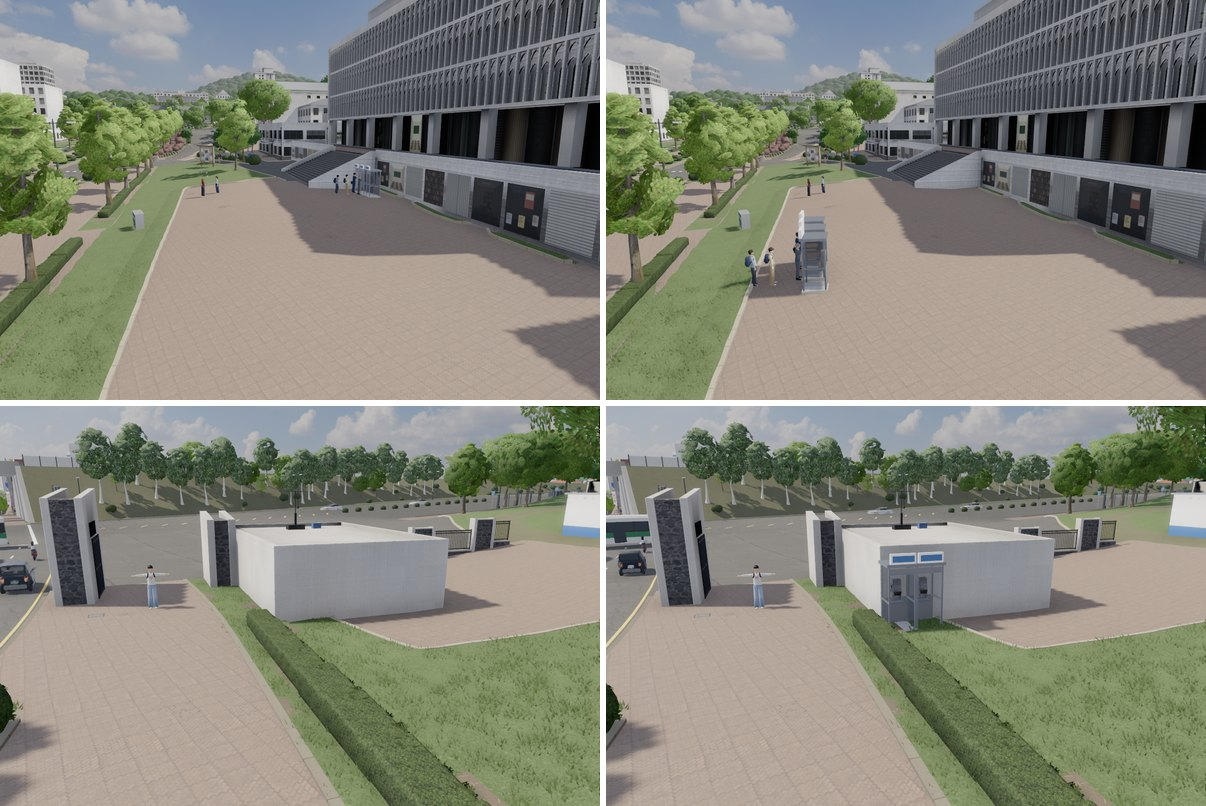
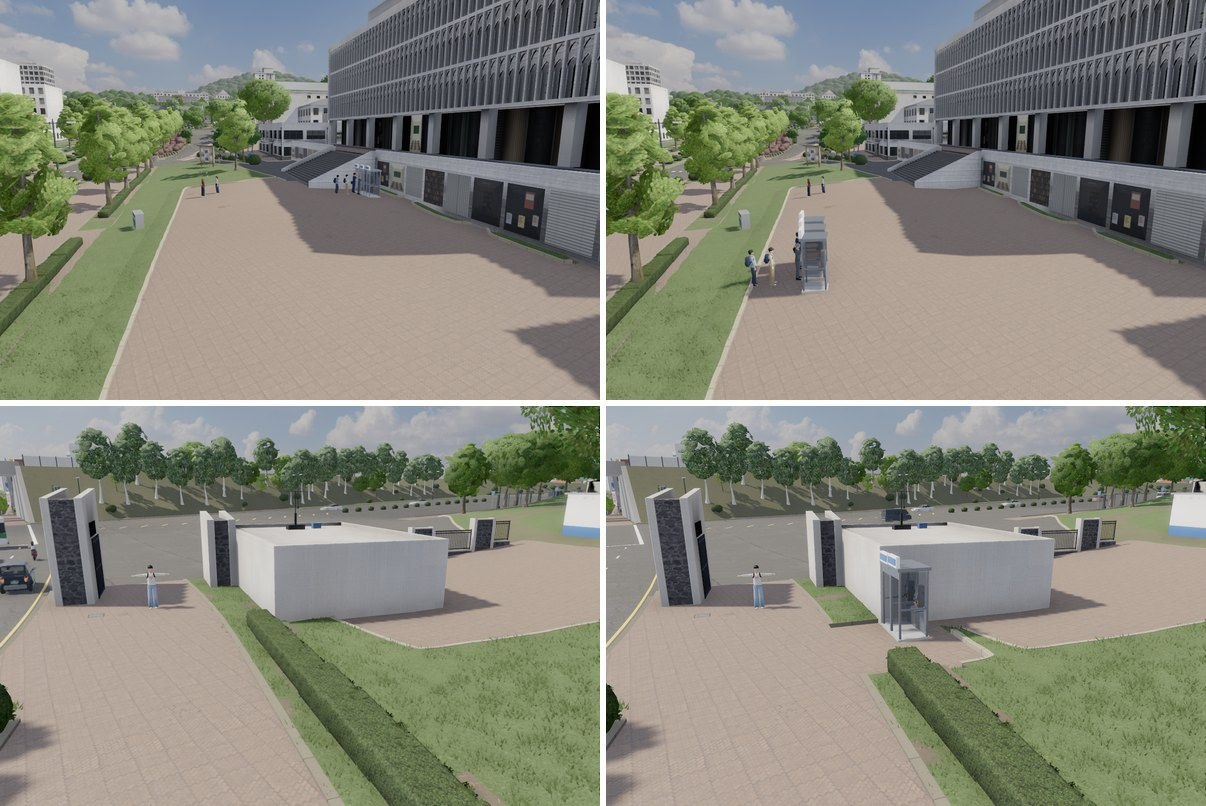
정문 수위실 북동 모서리: 생울타리 끝을 걷고 부스를 보도 쪽으로
부스로 가려면 보도 바깥 생울타리 끝을 돌아 잔디를 건너야 했다.
1996년 겨울 원본 스캔 두 장에서 화단 띠는 수위실 모서리보다 4 m
북쪽에서 시작하고, 그 남쪽은 보도와 이어진 포장이었다.

- 생울타리 남쪽 세 그루를 늦게 빼고, 화단 띠를 열고 포장으로 칠함
  (GATE_CORNER, 심기 난수는 그대로)
- blender/road.py: 정문 어귀 구간(mouth_segment)도 strip_breaks 를 따름
- 부스 둘은 로드뷰대로 앞을 동쪽 보도로, 삐삐 판정 자리 다시 뽑음

diff --git a/tools/build_campus.py b/tools/build_campus.py
@@ -8269,6 +8269,15 @@ out['baekyangro']['mouths'] += [[1, -2.0, round(GATE_S + 1.0, 2), 0.0, 0.0], [-1
 # 대강당 앞 둑: blender/road.py leaves the planting strip out where the wall stands, blender/landmarks.py aud_bank builds it
 out['baekyangro']['walls'] = [[AUD_BANK['side'], AUD_BANK['s0'], AUD_BANK['s1']]]
 out['baekyangro']['strip_breaks'] = [list(ENG_MOUTH97 if o_ is ENG_MOUTH else o_) for o_ in STRIP_OPEN]   # (제1공학관 앞 진입로: 1997, 백양관 앞)
+# 정문 수위실 북동 모서리 (reference/고증/4.8.1 「수위실 곁 공중전화 부스」): the planting strip's hedge starts 4 m north
+# of the lodge's north wall on the 1996 winter scans (26/16 · 26/17: its first dark clump at s 47.5 - 47.7, leaf-off);
+# short of it the corner is bright paving from the sidewalk to the lodge's yard (1997 July 26/16 · 27/17, 1998 26/17),
+# where the 2008 - 2011 roadview has the payphone booths.  Late: the strip open there (blender/road.py strip_breaks),
+# paved (_yp below), its hedge pieces gone (with the booths below), so nothing else planted moves
+GATE_CORNER = (1, 42.6, 47.2)
+GATE_CORNER_PAVE = Polygon([along_raw(s_, o_)[:2] for s_, o_ in ((42.0, E_WALK - 0.2), (GATE_CORNER[2], E_WALK - 0.2),
+                                                                 (GATE_CORNER[2], E_WALK + ROAD['strip'] + 1.5), (42.0, E_WALK + ROAD['strip'] + 1.5))])
+out['baekyangro']['strip_breaks'].append(list(GATE_CORNER))
 out['baekyangro']['breaks'] = VERGE_BREAKS + [ENG_VERGE97]     # (the verge's openings besides crossings and gaps, above; 제1공학관 앞: 1997)
 # yellow-and-black bollards on the ramps of the openings, where the 2008 and the 2010 roadview both have them
 # (side, s; 1997 unknown): 백주년기념관 앞 건널목 (the one south of the grate), 학생회관 앞 (two, two, three, two and
@@ -10367,6 +10376,7 @@ if UTS_WALK:
     _ypaint([UTS_WALK], _yp, width=2.6)
 _ypaint(union97.west_paint(), _yp)         # (학생회관 남쪽 앞마당으로 드는 길: paving, as the forecourt's; tools/union97.py)
 _ypaint([GATE97_LAWN], _yg)                 # (정문 안 갈림길: the 1999 forecourt and island out, lawn under the 1997 crowns; GATE97)
+_ypaint([GATE_CORNER_PAVE], _yp)            # (수위실 북동 모서리: paving from the sidewalk to the lodge's yard; GATE_CORNER)
 # 찻길, the east road on the 1997 photos' line (TR_E, RD97 above), after the planting has read the ground as it was:
 #  - OSM's asphalt along the old line (TR_E_OSM) is taken up (lawn; the woods' floor again in the woods, _gf below),
 #    but for the roads and walks that met it, which keep their ends and run on to the new road (_rd_join: _ga, _gp);
@@ -13307,13 +13317,19 @@ out['trees'].append(['fir', -104.0, -264.3, 0.55, 2.1])     # (제1공학관 남
 out['shrubs'] += dongmun.shrubs()
 out['props'] += dongmun.props()
 # 공중전화 부스 둘 by the gate's lodge (reference/고증/4.8.1 「수위실 곁 공중전화 부스」): the 2008 - 2011 roadview
-# has a pair of booths at the lodge's north-east corner (동문 기억: 정문과 공대 사이). In the gate's frame (STATUES
-# 'gate', u east along the gate's line, v north) their backs to the lodge's north wall (blender/props.py GATE_LODGE:
-# u -19.18 .. -12.18, v up to 9.7), the east one flush with its east wall, the open fronts north onto the paving (the
-# game's low hedge stands 1.2 m east of the lodge where the roadview had the walk). At the props' very end (no index moves)
-for _u in (-12.66, -13.61):
-    _p = _gc + _gw_t * _u + _gw_n * 10.23
-    out['props'].append(['payphone', round(float(_p[0]), 2), round(float(_p[1]), 2), round(math.atan2(_gw_n[1], _gw_n[0]), 3)])
+# has a pair of booths just past the north end of the lodge's east face (동문 기억: 정문과 공대 사이), the open fronts
+# east onto the sidewalk.  In the gate's frame (STATUES 'gate', u east along the gate's line, v north; blender/props.py
+# GATE_LODGE: u -19.18 .. -12.18, v up to 9.7) side by side northwards off the lodge's north wall, their fronts in line
+# with its east face; the planting strip's hedge there is gone (GATE_CORNER below).  At the props' very end (no index moves)
+for _v in (10.23, 11.18):
+    _p = _gc + _gw_t * -12.71 + _gw_n * _v
+    out['props'].append(['payphone', round(float(_p[0]), 2), round(float(_p[1]), 2), round(math.atan2(_gw_t[1], _gw_t[0]), 3)])
+# (and the strip's hedge pieces on GATE_CORNER go, each slot given to the shrubs' last: late, no draws)
+_gcz = Polygon([along_raw(s_, o_)[:2] for s_, o_ in ((GATE_CORNER[1], E_WALK), (GATE_CORNER[2], E_WALK),
+                                                    (GATE_CORNER[2], E_WALK + ROAD['strip']), (GATE_CORNER[1], E_WALK + ROAD['strip']))])
+for _i in sorted((i_ for i_, s_ in enumerate(out['shrubs']) if s_[0] == 'hedge_low' and _gcz.contains(Point(s_[1], s_[2]))), reverse=True):
+    out['shrubs'][_i] = out['shrubs'][-1]
+    out['shrubs'].pop()
 out['shrubs'] += north97.shrubs97_more()      # (무악학사 학사 사이 동 서쪽의 덩이, 2026-11-21: at the shrubs' very end)
 # 이중윤 동문의 2003 ~ 2004년 사진(reference/동문_이중윤/, reference/고증/1_자료.md 자료 S)에서 옮긴 것(2026-11-22). Late, no draws.
 # - 중앙도서관 테라스의 난간 턱 (reference/고증/3.2-3.3 3.2.1 「난간 턱」): a seat-high granite parapet along the terrace's

diff --git a/blender/road.py b/blender/road.py
@@ -253,6 +253,26 @@ def build():
         def quad(q):
             mb.face(q if side > 0 else [q[1], q[0], q[3], q[2]], q_mat[0])
 
+        # the planting strip's openings (campus.json strip_breaks) apply here too: 정문 수위실 북동 모서리 is within
+        # the gate mouth's reach (mouth_at: its verge's end + 1.1 m)
+        brk = [(w0, w1) for sd, w0, w1 in sbreaks if sd == side and w1 > sa and w0 < sb]
+
+        def in_sbreak(s):
+            return any(w0 < s < w1 for w0, w1 in brk)
+
+        def strip_left(u0, v0, u1, v1):
+            # a strip band's stretch [u, v] (u0 · v0 on its inner edge, u1 · v1 on its outer) less the openings
+            out = [(u0, v0, u1, v1)]
+            for w0, w1 in brk:
+                nxt = []
+                for a0, b0, a1, b1 in out:
+                    if min(a0, a1) < w0:
+                        nxt.append((a0, max(a0, min(b0, w0)), a1, max(a1, min(b1, w0))))
+                    if max(b0, b1) > w1:
+                        nxt.append((min(b0, max(a0, w1)), b0, min(b1, max(a1, w1)), b1))
+                out = [q for q in nxt if q[1] - q[0] > 1e-4 or q[3] - q[2] > 1e-4]
+            return out
+
         q_mat = [None]
         # (o0, o1, z, mat) bands standing beside the road, as in the plain cross-section
         bands = [(e_lane, e_curb, VZ, 'curb'), (e_curb, e_verge - 0.2, VZ, LAWN), (e_verge - 0.2, e_verge, VZ, 'curb'),
@@ -280,11 +300,12 @@ def build():
                     if u0 >= v0 - 1e-4 and u1 >= v1 - 1e-4:
                         continue
                     v0, v1 = max(u0, v0), max(u1, v1)
-                    q_mat[0] = mat
-                    quad([P(u0, p0, z), P(v0, p0, z), P(v1, p1, z), P(u1, p1, z)])
+                    for u0_, v0_, u1_, v1_ in (strip_left(u0, v0, u1, v1) if o0 >= e_walk - 1e-6 else [(u0, v0, u1, v1)]):
+                        q_mat[0] = mat
+                        quad([P(u0_, p0, z), P(v0_, p0, z), P(v1_, p1, z), P(u1_, p1, z)])
                     # the kerb face where the band stops, towards the mouth
                     e0, e1 = (v0, v1) if edge == 'end' else (u0, u1)
-                    if sa < e0 < sb or sa < e1 < sb:
+                    if (sa < e0 < sb or sa < e1 < sb) and not (o0 >= e_walk - 1e-6 and in_sbreak(0.5 * (e0 + e1))):
                         q_mat[0] = KERB
                         f = [P(e0, p0, 0), P(e1, p1, 0), P(e1, p1, z), P(e0, p0, z)]
                         quad(f if edge == 'end' else [f[1], f[0], f[3], f[2]])
@@ -293,16 +314,31 @@ def build():
                                        (e_strip, -0.8, WZ, True)):
             lo, hi = cut(m, off, off <= e_verge + 1e-6)
             for u, v in ((sa, min(sb, lo)), (max(sa, hi), sb)):
-                if v - u > 1e-3:
-                    q_mat[0] = KERB
-                    f = [P(u, off, z0_), P(v, off, z0_), P(v, off, z1_), P(u, off, z1_)]
-                    quad([f[1], f[0], f[3], f[2]] if outward else f)
+                for u, v, _, _ in (strip_left(u, v, u, v) if off >= e_walk - 1e-6 else [(u, v, u, v)]):
+                    if v - u > 1e-3:
+                        q_mat[0] = KERB
+                        f = [P(u, off, z0_), P(v, off, z0_), P(v, off, z1_), P(u, off, z1_)]
+                        quad([f[1], f[0], f[3], f[2]] if outward else f)
             if off == e_lane and m[5] > 0:
                 # the low kerb of the paving in front of the verge's end
                 u, v = max(sa, cut(m, off)[1]), min(sb, hi)
                 if v - u > 1e-3:
                     q_mat[0] = KERB
                     quad([P(u, off, 0), P(v, off, 0), P(v, off, WZ), P(u, off, WZ)])
+        # in a strip opening the sidewalk's edge goes down to the terrain, and the strip's ends face it (as below, the
+        # plain cross-section)
+        for w0, w1 in brk:
+            u, v = max(sa, w0), min(sb, w1)
+            if v - u > 1e-3:
+                q_mat[0] = KERB
+                f = [P(u, e_walk, -0.8), P(v, e_walk, -0.8), P(v, e_walk, WZ), P(u, e_walk, WZ)]
+                quad([f[1], f[0], f[3], f[2]])
+            for w in (w0, w1):
+                if sa < w < sb:
+                    q_mat[0] = KERB
+                    q = [P(w, e_walk, -0.8), P(w, e_strip, -0.8), P(w, e_strip, WZ), P(w, e_walk, WZ)]
+                    quad(q)
+                    quad([q[1], q[0], q[3], q[2]])
         # the flush asphalt of the mouth, out past the strip onto the terrain's own asphalt, with a skirt beneath
         k = int(math.ceil((e_strip + 0.6 - e_lane) / 0.4))
         for i in range(k):

diff --git a/reference/고증/4.8.1_정문의_생김새.md b/reference/고증/4.8.1_정문의_생김새.md
@@ -478,9 +478,27 @@
 - 1996 ~ 1999년 원본 스캔
   - 수위실 지붕 위 u −14.7, v 6.6 ~ 9.5 에 1 × 3 m 쯤의 밝은 띠: 1996 · 1997 · 1998년 짝 여섯이 땅 위 2.2 ~ 2.6 m(상관 0.95 ~ 1.00)로 맞음. 크기는 부스 셋 줄과 같으나 자리가 수위실 지붕(2.8 m) 안이라 지붕의 것으로 봄
   - 수위실 북쪽(v 10 ~ 13): 1997년 7월은 수관 밑, 1996년 겨울은 수위실 그늘이라 부스를 가리지 못함
-- 게임: 부스 둘을 수위실 북쪽 벽에 등을 대고, 동쪽 것은 동쪽 벽과 한 면(u −12.66 · −13.61, v 10.23: (−114.86, −382.97) · (−115.78, −382.74)). 앞은 북쪽 포장 마당(`tools/build_campus.py` 「공중전화 부스 둘 by the gate's lodge」)
-  - 로드뷰는 앞이 동쪽이나, 게임은 그 자리 1.2 m 동쪽에 낮은 생울타리가 있어 수화기를 드는 자리가 울타리에 걸림
+- 게임: 부스 둘을 수위실 북쪽 벽에서 북쪽으로 나란히, 앞면은 수위실 동쪽 면과 한 줄(u −12.71, v 10.23 · 11.18: (−114.91, −382.96) · (−114.68, −382.04)). 앞은 동쪽 보도(`tools/build_campus.py` 「공중전화 부스 둘 by the gate's lodge」)
+  - 처음(2026-11-23)에는 수위실 북쪽 벽에 등을 대고 앞이 북쪽이었음. 보도 쪽 화단 띠의 생울타리가 수위실 모서리까지 이어져 보도에서 부스로 가려면 울타리 끝을 돌아 잔디를 건너야 했음. 그 울타리 끝은 아래 「수위실 북동 모서리의 화단 띠」로 고침
   - 1997년에도 같은 자리였는지는 「남은 한계」
+
+### 수위실 북동 모서리의 화단 띠 (2026-11-23)
+
+보도 바깥 화단 띠(생울타리 · 은행나무)가 어디서 시작하는지를 원본 스캔에서 읽었다. 화단 띠 가운데 선(차도 가운데에서 서쪽 11.05 m)을 따라 편 띠를 각 사진의 땅 높이 + 0.3 m 에 다시 투영해 견줌.
+
+| 사진 | 화단 띠 선 위의 첫 짙은 덩이(백양로 s) | 그 남쪽(수위실 북동 모서리 쪽) |
+|---|---|---|
+| 1996 26/16(잎 없음) | 47.5 | 밝은 포장, 보도와 이어짐 |
+| 1996 26/17(잎 없음) | 47.7 | 같음 |
+| 1996 27/17 · 27/18 | 44 ~ 45 쯤(동쪽 나무 그림자가 겹쳐 읽기 어려움) | 밝음 |
+| 1997 26/16(7월) | 46.6(수관이 덮음) | 밝은 포장. 수위실 모서리 동쪽에 작은 짙은 덩이 하나(s 43, 관목이나 작은 나무) |
+| 1998 26/17(10월) | 띠 동쪽 끝이 비스듬히 잘린 화단, 띠 가운데 선에서 45.4 | 수위실과 화단 사이 밝은 포장 |
+
+- 잎 없는 두 장이 0.2 m 안에서 맞아 띠의 남쪽 끝을 s 47.5 쯤으로 봄. 게임의 생울타리는 s 43.5 에서 시작했음
+- 게임
+  - 생울타리 남쪽 세 그루(s 43.5 · 45.0 · 46.5)를 뺌. 화단 띠는 s 42.6 ~ 47.2 에서 열림(`GATE_CORNER`)
+  - 그 자리와 부스 뒤를 보도에서 수위실 북쪽 마당까지 포장으로
+- 1997년 · 1999년 사진의 수위실 모서리 곁 짙은 덩이(1999년 27/17 에서는 뾰족한 늘푸른 나무)는 게임에 넣지 않음. 1996년 겨울 사진에는 뚜렷하지 않아 1997년에 있었는지 모름
 
 ## 게임에 옮긴 것
 
@@ -498,7 +516,8 @@
 | 현판 | 서쪽 큰 기둥의 한자 현판 | 동쪽 흰 담(2011년 글씨 자리, 대자보 뒤) → 없음(자료 R `gate.jpg` 의 흰 담에 현판이 없음) |
 | 대자보 | 없음 | 동쪽 흰 담 두 칸에 큰 종이 넷과 작은 공고 둘, 계절마다 다른 글(위 「대자보」) |
 | 안내판 | 없음 | 동쪽 큰 기둥 앞 |
-| 공중전화 부스 | 없음 | 수위실 북쪽 벽 동쪽 끝에 둘, 앞은 북쪽(위 「수위실 곁 공중전화 부스」) |
+| 공중전화 부스 | 없음 | 수위실 북동 모서리 너머에 둘, 앞은 동쪽 보도(전: 수위실 북쪽 벽에 등을 대고 앞은 북쪽. 위 「수위실 곁 공중전화 부스」) |
+| 수위실 북동 모서리의 화단 띠 | 생울타리가 s 43.5 부터 | s 47.5 부터, 그 남쪽은 보도에서 수위실 북쪽 마당까지 포장(위 「수위실 북동 모서리의 화단 띠」) |
 
 - 큰 기둥: 백양로 화단 띠(차도 가운데에서 4.2 ~ 5.65 m)의 남쪽 끝에 섬(원본 스캔에서도 띠 끝)
 - 보도(폭 서쪽 5.0 m · 동쪽 5.2 m, 전 4.5 · 4.4 m): 큰 기둥과 바깥 기둥 사이로 지나감
@@ -513,4 +532,4 @@
 | 수위실의 폭 · 옆 · 뒤, 서쪽 낮은 담의 서쪽 끝 | 폭 7.0 m(1996년 사진), 민 화강석 벽, 담은 31.5 m까지 | 폭: 네 비행 원본 스캔 열세 장의 지붕은 u −18.4 ~ −12.2 (6.2 m, 위 「다른 해의 원본 스캔으로 본 낮은 담과 수위실」), 2008년 스카이뷰 6.5 ~ 7 m, 1996년 사진의 앞면 6.7 ~ 7.0 m. 2011년 로드뷰의 옆 · 뒤는 막돌 벽에 청록 창틀(고친 것일 수 있음). 1996년 사진 왼쪽 끝은 가운데에서 25 m. 1996년 겨울 · 1997 ~ 1999년 원본 스캔 모두 u −19 ~ −34가 늘푸른 나무 수관이고, u −34.2에 남북으로 곧은 짙은 줄(가림벽인지 모름) 그 서쪽은 공학원 공사장 앞 마당. 수위실은 지붕만 보임. 자료 R `gate.jpg` 는 수위실 앞면만, 왼쪽 끝이 가운데에서 18 m. 서울연구원 51994(1995년 10월, 성산로 서쪽에서)는 버스에 가림 | #168 |
 | 큰 기둥 몸체의 뒤 | 2011년 로드뷰의 뒤쪽 막돌 | 1990년대 사진은 모두 남쪽에서 찍은 것. 판 윗면이 뒤로 낮아지는 정도(앞 4.9 m → 뒤 4.5 m)도 어림(원본 스캔의 판 윗면은 땅 위 4.4 ~ 4.6 m, ± 0.3 m). 등은 1996년 8월 사진의 1600 px 원본으로 없음이 풀려 뺌 | #168 |
 | 대자보의 글귀 | 그 무렵 보도에 나온 일로 지은 글, 봄 · 여름 · 가을 여섯 장씩 | 1997년 4 · 5 · 10월의 연세춘추 지면(온라인 목록은 1998년 3월부터), 그해 정문 앞 사진. 찾아본 곳: 자료 R(학교 홈페이지 1996 ~ 1997: `gate.jpg` 는 대자보가 없는 날), 서울신문 1997년 | #168 |
-| 수위실 곁 공중전화 부스의 1997년 자리 · 방향 | 둘, 수위실 북쪽 벽 동쪽 끝, 앞은 북쪽 | 2008 ~ 2011년 로드뷰(수위실 북동 모서리, 앞은 동쪽)와 동문 기억. 1997년 7월 스캔은 수관 밑, 1996년 겨울은 그늘. 1990년대에 정문 안쪽 서쪽 보도를 찍은 지상 사진이 있어야 정해짐 | — |
+| 수위실 곁 공중전화 부스의 1997년 자리 · 방향 | 둘, 수위실 북동 모서리 너머, 앞은 동쪽 보도(2008 ~ 2011년 로드뷰대로) | 2008 ~ 2011년 로드뷰와 동문 기억. 1997년 7월 스캔은 수관 밑, 1996년 겨울은 그늘. 그 모서리가 1996 ~ 1998년에 포장이었던 것은 스캔으로 봄(위 「수위실 북동 모서리의 화단 띠」). 1990년대에 정문 안쪽 서쪽 보도를 찍은 지상 사진이 있어야 정해짐 | — |
